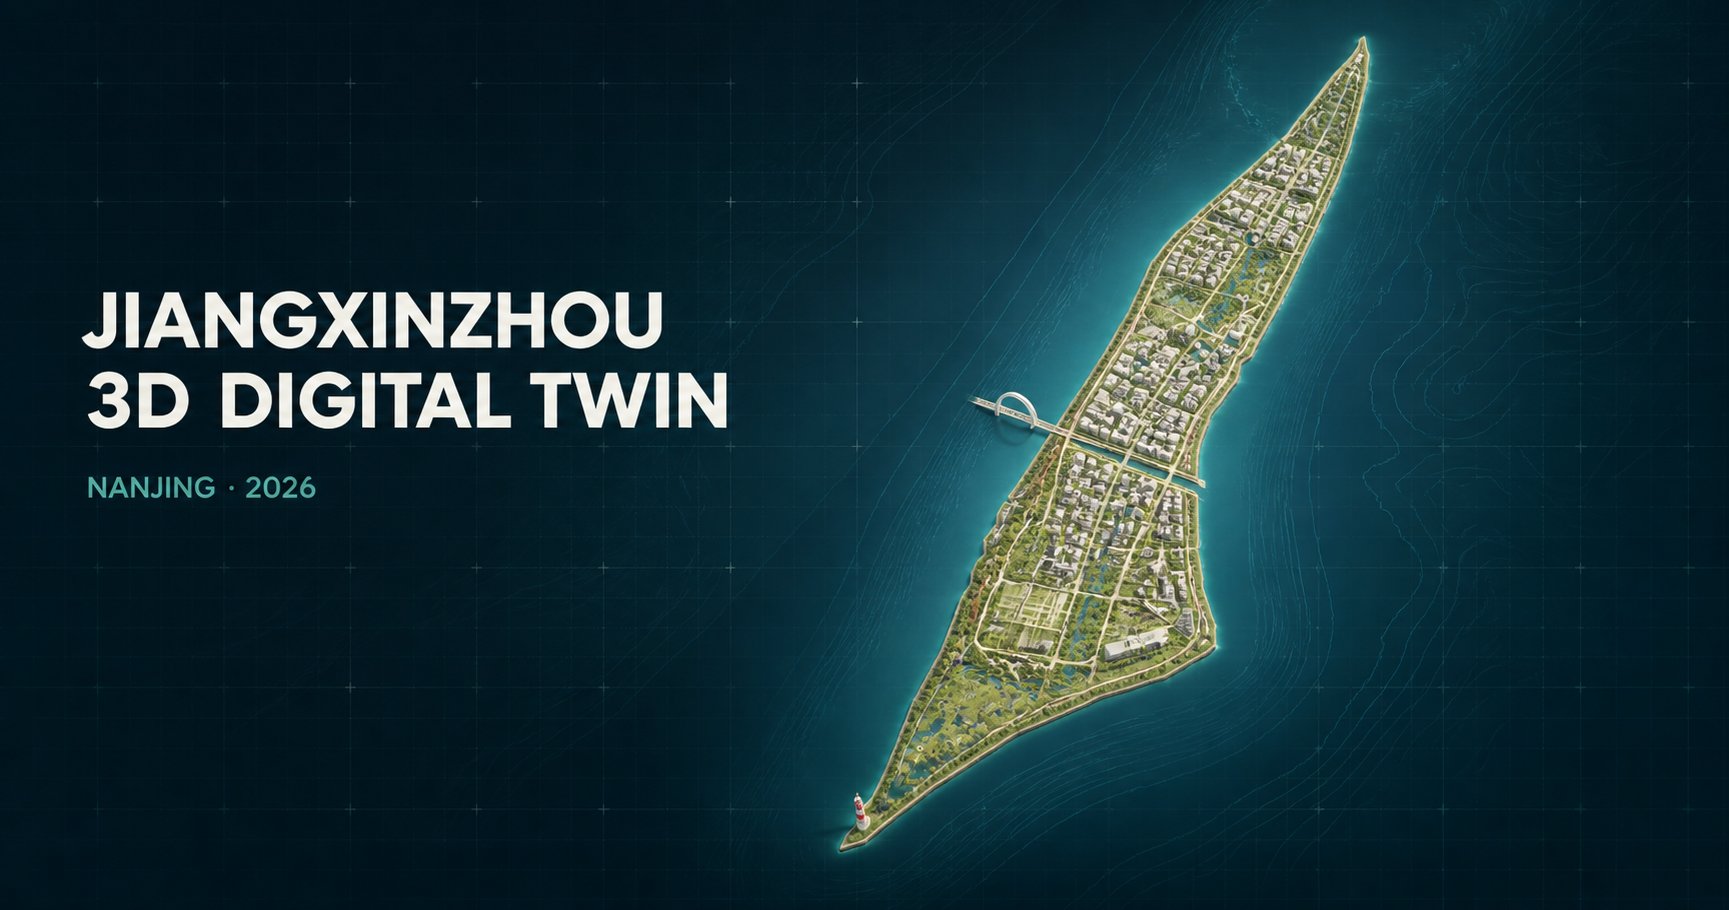
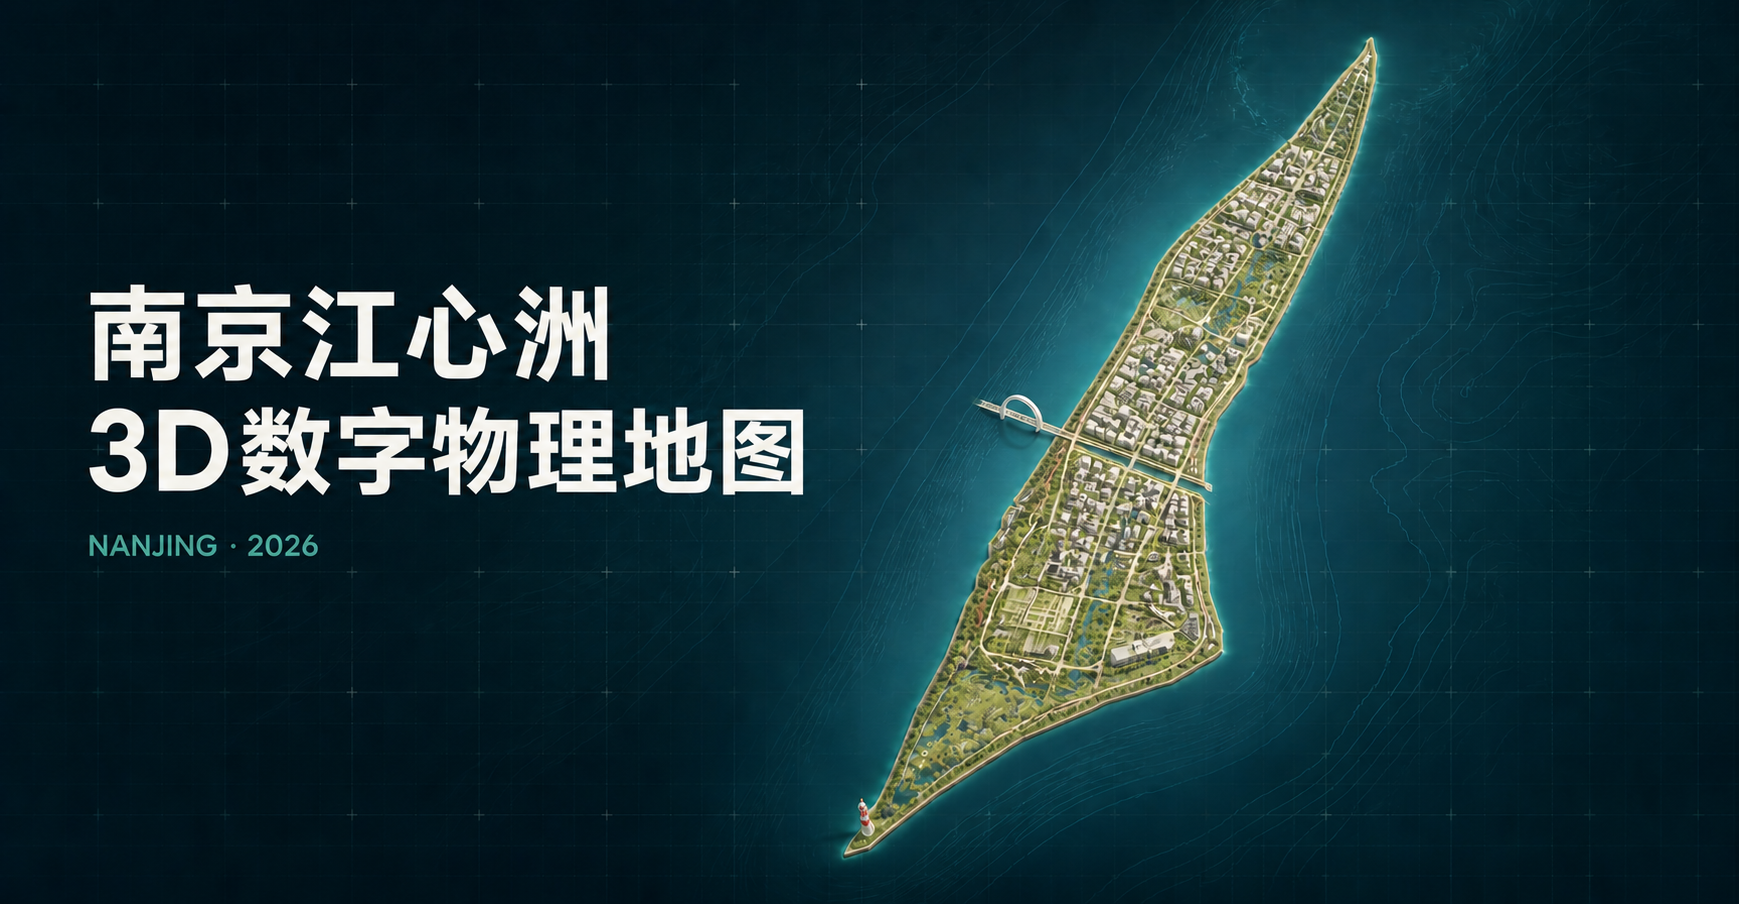
chore: rename Jiangxinzhou map product

Changed region(s): [[0.4685, 0.0619, 0.812, 0.9602], [0.0312, 0.3097, 0.4685, 0.5575], [0.0312, 0.5885, 0.1874, 0.6195]]

diff --git a/app/jiangxinzhou/locales.ts b/app/jiangxinzhou/locales.ts
@@ -16,8 +16,8 @@ export const localize = (text: LocalizedText, language: Language): string => tex
 
 export const pageCopy = {
   title: {
-    zh: "南京江心洲 3D 孪生数字地图",
-    en: "Nanjing Jiangxinzhou 3D Digital Twin Map",
+    zh: "南京江心洲3D数字物理地图",
+    en: "Nanjing Jiangxinzhou 3D Digital Physical Map",
   },
   description: {
     zh: "基于 WGS84、开放建筑轮廓、高德地图、Google Earth 与公开建筑资料交叉核验的江心洲全岛 3D 数字地图。",
@@ -231,8 +231,8 @@ export const experienceCopy = {
     en: "DATA / OSM ODbL + AMAP POI CHECK + GOOGLE EARTH FORM REFERENCE · BLENDER 5.2 GLB",
   },
   precisionNote: {
-    zh: "公众游览级数字孪生 · 非测绘或地籍数据",
-    en: "PUBLIC VISITOR DIGITAL TWIN · NOT SURVEY OR CADASTRAL DATA",
+    zh: "公众游览级三维物理地图 · 非测绘或地籍数据",
+    en: "PUBLIC VISITOR 3D PHYSICAL MAP · NOT SURVEY OR CADASTRAL DATA",
   },
   location: {
     zh: "南京 · 江心洲 · 2026",

diff --git a/app/jiangxinzhou/JiangxinzhouShell.tsx b/app/jiangxinzhou/JiangxinzhouShell.tsx
@@ -31,7 +31,7 @@ export default function JiangxinzhouShell({ landmarks }: { landmarks: Landmark[]
   return (
     <>
       <header className="jiangxinzhou-seo-copy">
-        <div><p className="jiangxinzhou-eyebrow">NANJING · JIANGXINZHOU / DIGITAL TWIN V2</p><h1>{pageCopy.title[language]}</h1></div>
+        <div><p className="jiangxinzhou-eyebrow">NANJING · JIANGXINZHOU / 3D DIGITAL PHYSICAL MAP</p><h1>{pageCopy.title[language]}</h1></div>
         <p>{pageCopy.intro[language]}</p>
       </header>
       <JiangxinzhouExperience landmarks={landmarks} language={language} onLanguageChange={changeLanguage} />

diff --git a/app/jiangxinzhou/page.tsx b/app/jiangxinzhou/page.tsx
@@ -11,7 +11,7 @@ export const metadata: Metadata = {
     title: `${pageCopy.title.zh} | ${pageCopy.title.en}`,
     description: `${pageCopy.openGraphDescription.zh} / ${pageCopy.openGraphDescription.en}`,
     type: "website",
-    images: [{ url: "/og-jiangxinzhou-v2.png", width: 1748, height: 910, alt: "Jiangxinzhou 3D Digital Twin V2" }],
+    images: [{ url: "/og-jiangxinzhou-v2.png", width: 1748, height: 910, alt: "南京江心洲3D数字物理地图" }],
   },
   twitter: {
     card: "summary_large_image",

diff --git a/app/layout.tsx b/app/layout.tsx
@@ -8,7 +8,7 @@ const notoSansSC = Noto_Sans_SC({ variable: "--font-noto-sc", subsets: ["latin"]
 
 export const metadata: Metadata = {
   metadataBase: new URL("https://jiangxinzhou-3d-twin.vercel.app"),
-  title: "南京江心洲 3D 孪生数字地图",
+  title: "南京江心洲3D数字物理地图",
   description: "以 WGS84、开放建筑轮廓与多方公开资料交叉核验的江心洲全岛 3D 数字地图。",
 };
 

diff --git a/README.md b/README.md
@@ -1,4 +1,4 @@
-# 南京江心洲 3D 孪生数字地图 V2
+# 南京江心洲3D数字物理地图
 
 [English](#english) · 中文
 
@@ -10,7 +10,7 @@
 - Blender 5.2 米制模型拆分为地形、南/中/北建筑、植被和重点地标六个 GLB。
 - 南京眼按公开的 240 米主跨资料建模；灯塔组、ROCHO、江豚中心、胜科水务、江岛智立方和基督教江心洲堂采用分级复原。
 - 高德、Google Earth、政府、新华社和机构照片仅用于位置或形态核对，不在仓库中重新分发。
-- 公众游览级数字孪生，不属于测绘、导航或地籍数据。估算模型会在界面中标记。
+- 公众游览级三维物理地图，不属于测绘、导航或地籍数据。估算模型会在界面中标记。
 
 ## 本地运行
 
@@ -44,4 +44,4 @@ npm run dev
 
 A bilingual, full-island 3D visitor map of Jiangxinzhou, Nanjing. All spatial layers use WGS84 and a shared metre-scale Blender/Three.js scene. The project includes 286 OSM building footprints, 263 road segments, evidence-graded landmarks, responsive rendering and explicit estimated-model labels.
 
-This is a public visitor digital twin, not survey, navigation or cadastral data. OpenStreetMap-derived geometry is provided under ODbL; reference imagery is not redistributed.
+This is a public visitor 3D digital physical map, not survey, navigation or cadastral data. OpenStreetMap-derived geometry is provided under ODbL; reference imagery is not redistributed.
